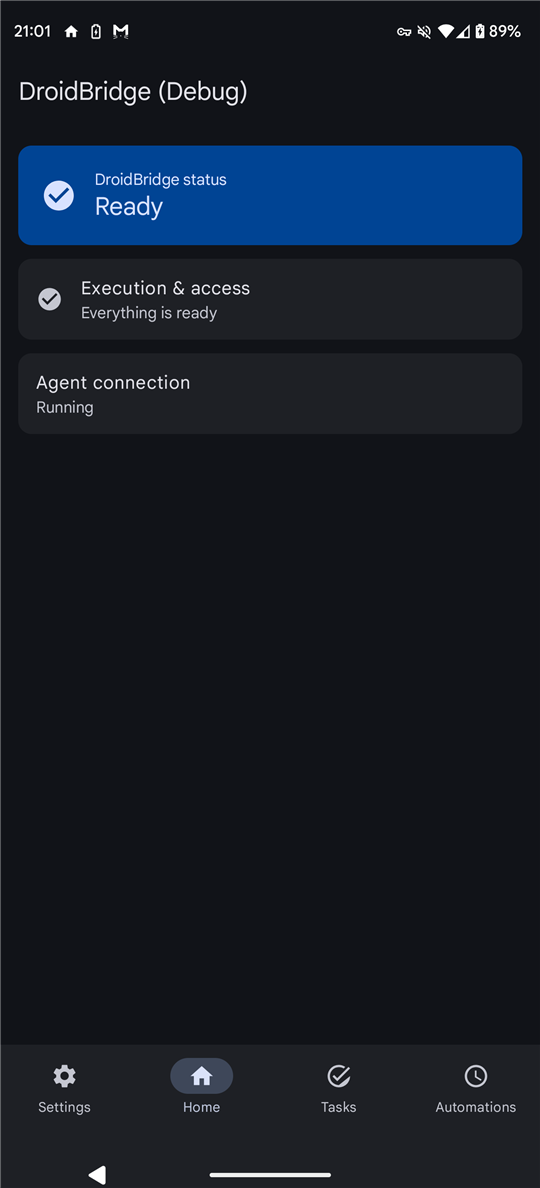
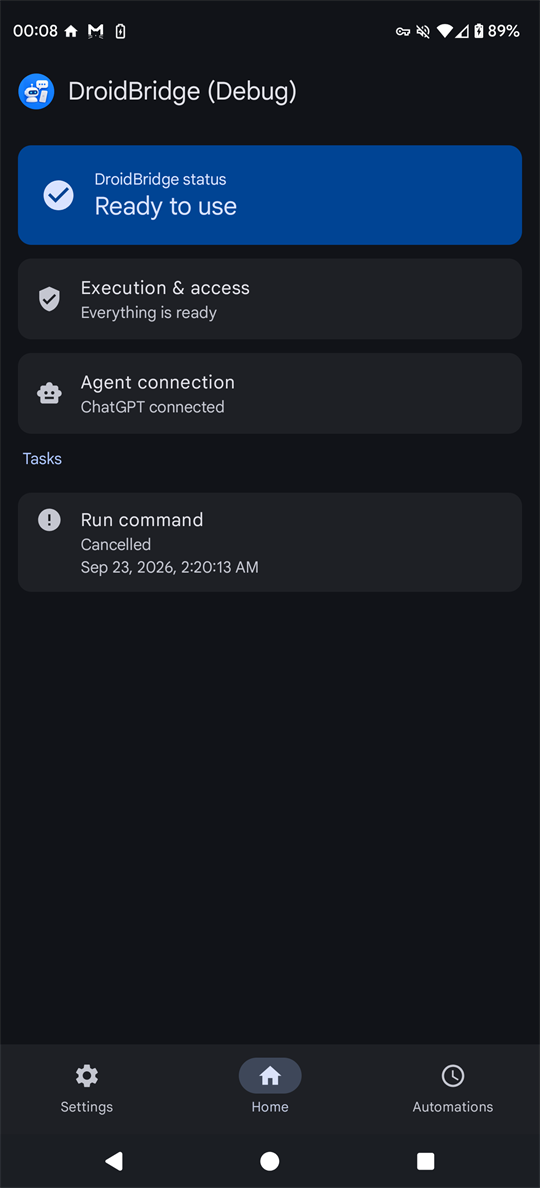
Owner-only daemon logs, a remembered first ChatGPT call, new screenshots

diff --git a/app/src/main/java/com/droidbridge/android/runtimehost/TunnelSettingsController.kt b/app/src/main/java/com/droidbridge/android/runtimehost/TunnelSettingsController.kt
@@ -191,6 +191,8 @@ internal class TunnelSettingsController(
         val enabled: Boolean,
         val tunnelId: String,
         val credential: EncryptedTunnelCredential,
+        /** When ChatGPT first called through this tunnel; first setup finishes on it after a restart too. */
+        val firstCallEpochMs: Long? = null,
     )
 
     fun settings(): String = synchronized(lock) {
@@ -314,7 +316,15 @@ internal class TunnelSettingsController(
         }
     }
 
-    private fun status(settings: Committed?): String {
+    private fun status(current: Committed?): String {
+        // The running tunnel knows only calls since it started; the first one is kept, so a
+        // restarted App still knows ChatGPT has called. A failed write keeps only the live value.
+        val observedCall = runtime.lastCallEpochMs().takeIf { it > 0 }
+        val settings = if (current != null && current.firstCallEpochMs == null && observedCall != null) {
+            commit(current.copy(firstCallEpochMs = observedCall)).getOrDefault(current)
+        } else {
+            current
+        }
         val nativeState = runtime.state().takeIf { it in STATES } ?: TUNNEL_FAILED
         val state = when {
             settings?.enabled != true -> TUNNEL_STOPPED
@@ -330,7 +340,7 @@ internal class TunnelSettingsController(
             put("state", state)
             if (settings != null) put("tunnel_id", settings.tunnelId)
             if (reason != null) put("reason", reason)
-            runtime.lastCallEpochMs().takeIf { it > 0 }?.let { put("last_call_epoch_ms", it) }
+            (observedCall ?: settings?.firstCallEpochMs)?.let { put("last_call_epoch_ms", it) }
             // Only a tunnel that is enabled but not running has a failure worth naming.
             runtime.lastError()?.takeIf { state == TUNNEL_CONNECTING || state == TUNNEL_FAILED }
                 ?.takeIf { LAST_ERROR.matches(it) }?.let { put("last_error", it) }
@@ -405,11 +415,17 @@ internal class TunnelSettingsController(
             put("tunnel_id", settings.tunnelId)
             put("ciphertext", settings.credential.ciphertext)
             put("iv", settings.credential.iv)
+            settings.firstCallEpochMs?.let { put("first_call_epoch_ms", it) }
         }.toString()
 
         fun decode(text: String): Committed {
             val value = Json.parseToJsonElement(text).jsonObject
-            require(value.keys == setOf("schema_version", "enabled", "tunnel_id", "ciphertext", "iv"))
+            val firstCall = value["first_call_epoch_ms"]?.jsonPrimitive?.also { require(!it.isString) }
+                ?.content?.toLong()?.also { require(it > 0) }
+            require(
+                value.keys == setOf("schema_version", "enabled", "tunnel_id", "ciphertext", "iv") +
+                    if (firstCall != null) setOf("first_call_epoch_ms") else emptySet(),
+            )
             val version = value.getValue("schema_version").jsonPrimitive
             require(!version.isString && version.content == SCHEMA_VERSION.toString())
             val enabled = value.getValue("enabled").jsonPrimitive
@@ -426,6 +442,7 @@ internal class TunnelSettingsController(
                 enabled = requireNotNull(enabled.booleanOrNull),
                 tunnelId = tunnelId,
                 credential = EncryptedTunnelCredential(ciphertext, iv),
+                firstCallEpochMs = firstCall,
             )
         }
 

diff --git a/app/src/test/java/com/droidbridge/android/I13_TunnelSettingsControllerTest.kt b/app/src/test/java/com/droidbridge/android/I13_TunnelSettingsControllerTest.kt
@@ -34,6 +34,24 @@ class I13_TunnelSettingsControllerTest {
     ) = TunnelSettingsController(directory, runtime, network, cipher, FakeFileSystem())
 
     @Test
+    fun the_first_call_survives_a_restarted_runtime_and_new_credentials_forget_it() {
+        val controller = controller()
+        controller.configure(TUNNEL_ID, API_KEY, foreground::add)
+        assertFalse(controller.settings().contains("last_call_epoch_ms"))
+
+        runtime.lastCall = FIRST_CALL
+        assertEquals(FIRST_CALL, long(controller.settings(), "last_call_epoch_ms"))
+
+        // A new process starts a tunnel that has seen no call yet.
+        val restarted = FakeRuntime()
+        assertEquals(FIRST_CALL, long(controller(runtime = restarted).settings(), "last_call_epoch_ms"))
+
+        val replaced = controller(runtime = restarted)
+        replaced.configure(TUNNEL_ID, API_KEY, foreground::add)
+        assertFalse(replaced.settings().contains("last_call_epoch_ms"))
+    }
+
+    @Test
     fun credentials_commit_before_enable_and_plaintext_never_reaches_disk() {
         val controller = controller()
         assertFalse(boolean(controller.settings(), "configured"))
@@ -121,6 +139,9 @@ class I13_TunnelSettingsControllerTest {
         assertTrue(cipher.deleted)
     }
 
+    private fun long(reply: String, name: String): Long =
+        Json.parseToJsonElement(reply).jsonObject.getValue(name).jsonPrimitive.content.toLong()
+
     private fun boolean(reply: String, name: String): Boolean =
         Json.parseToJsonElement(reply).jsonObject.getValue(name).jsonPrimitive.content.toBooleanStrict()
 
@@ -153,7 +174,9 @@ class I13_TunnelSettingsControllerTest {
 
         override fun state(): String = current
 
-        override fun lastCallEpochMs(): Long = 0
+        var lastCall = 0L
+
+        override fun lastCallEpochMs(): Long = lastCall
     }
 
     private class FakeNetwork : TunnelNetworkMonitor {
@@ -199,5 +222,6 @@ class I13_TunnelSettingsControllerTest {
     private companion object {
         const val TUNNEL_ID = "tunnel_0123456789abcdefghijklmnopqrstuv"
         const val API_KEY = "test-runtime-api-key"
+        const val FIRST_CALL = 1_789_495_200_000L
     }
 }

diff --git a/app/src/main/java/com/droidbridge/android/ui/settings/SettingsScreens.kt b/app/src/main/java/com/droidbridge/android/ui/settings/SettingsScreens.kt
@@ -479,14 +479,6 @@ fun AboutRoute(
             }
             item {
                 ListItem(
-                    headlineContent = { Text("${stringResource(R.string.mcp_protocol_version)}  $PROTOCOL_VERSION") },
-                    supportingContent = { Text("${stringResource(R.string.diag_store_schema)}  $STORE_SCHEMA_VERSION") },
-                    leadingContent = { RowIcon(R.drawable.ic_tag) },
-                    modifier = Modifier.testTag("about:versions"),
-                )
-            }
-            item {
-                ListItem(
                     headlineContent = { Text(stringResource(R.string.about_licenses)) },
                     leadingContent = { RowIcon(R.drawable.ic_description) },
                     modifier = Modifier.clickable(onClick = openLicenses).testTag("about:licenses"),
@@ -567,5 +559,3 @@ internal fun BackButton(tag: String, @StringRes description: Int, back: () -> Un
     }
 }
 
-private const val PROTOCOL_VERSION = "1"
-private const val STORE_SCHEMA_VERSION = "1"

diff --git a/rust/crates/supervisor/src/stderr_log.rs b/rust/crates/supervisor/src/stderr_log.rs
@@ -17,6 +17,9 @@ pub const LOG_BACKUP_FILES: usize = 2;
 pub const LOG_FILE_NAME: &str = "daemon-stderr.log";
 /// One read from the daemon's stderr: a stalled writer is drained at this size.
 const DRAIN_CHUNK_BYTES: usize = 8_192;
+/// Owner-only: the log directory and every log file are root's alone.
+const DIRECTORY_MODE: u32 = 0o700;
+const FILE_MODE: u32 = 0o600;
 
 /// Appends `bytes` to the log in `directory`, rotating first whenever the current file would pass
 /// [`LOG_FILE_LIMIT_BYTES`], so every file on disk stays within that limit and the bytes written
@@ -32,6 +35,20 @@ pub fn append(directory: &Path, bytes: &[u8]) -> io::Result<()> {
         Err(error) => return Err(error),
     }
     let path = directory.join(LOG_FILE_NAME);
+    // The log sits inside the App's private data and is written as root, whose umask may be 0, so
+    // the modes are set explicitly; this also narrows a directory or file an earlier version left
+    // world-writable.
+    restrict(directory, DIRECTORY_MODE)?;
+    for index in 0..=LOG_BACKUP_FILES {
+        let file = if index == 0 {
+            path.clone()
+        } else {
+            backup_path(&path, index)
+        };
+        if file.exists() {
+            restrict(&file, FILE_MODE)?;
+        }
+    }
     let mut written = file_len(&path)?;
     let mut file = open_append(&path)?;
     let mut remaining = bytes;
@@ -81,7 +98,26 @@ fn file_len(path: &Path) -> io::Result<u64> {
 }
 
 fn open_append(path: &Path) -> io::Result<File> {
-    OpenOptions::new().create(true).append(true).open(path)
+    let mut options = OpenOptions::new();
+    options.create(true).append(true);
+    #[cfg(unix)]
+    {
+        use std::os::unix::fs::OpenOptionsExt;
+        options.mode(FILE_MODE);
+    }
+    let file = options.open(path)?;
+    restrict(path, FILE_MODE)?;
+    Ok(file)
+}
+
+#[cfg_attr(not(unix), allow(unused_variables))]
+fn restrict(path: &Path, mode: u32) -> io::Result<()> {
+    #[cfg(unix)]
+    {
+        use std::os::unix::fs::PermissionsExt;
+        fs::set_permissions(path, fs::Permissions::from_mode(mode))?;
+    }
+    Ok(())
 }
 
 /// Shifts the chain back by one, discarding the oldest file that the shift would overwrite.
@@ -177,6 +213,29 @@ mod tests {
                 .iter()
                 .any(|file| fs::read(file).unwrap() == first)
         );
+
+        fs::remove_dir_all(directory).unwrap();
+    }
+
+    #[cfg(unix)]
+    #[test]
+    fn stderr_log_is_owner_only_even_where_an_earlier_version_was_not() {
+        use std::os::unix::fs::PermissionsExt;
+        let directory = working_directory("stderr-modes");
+        let path = directory.join(LOG_FILE_NAME);
+        fs::create_dir_all(&directory).unwrap();
+        fs::set_permissions(&directory, fs::Permissions::from_mode(0o777)).unwrap();
+        fs::write(&path, b"old").unwrap();
+        fs::set_permissions(&path, fs::Permissions::from_mode(0o666)).unwrap();
+        fs::write(backup_path(&path, 1), b"older").unwrap();
+        fs::set_permissions(backup_path(&path, 1), fs::Permissions::from_mode(0o666)).unwrap();
+
+        append(&directory, b"new").unwrap();
+
+        let mode = |file: &Path| fs::metadata(file).unwrap().permissions().mode() & 0o777;
+        assert_eq!(mode(&directory), 0o700);
+        assert_eq!(mode(&path), 0o600);
+        assert_eq!(mode(&backup_path(&path, 1)), 0o600);
 
         fs::remove_dir_all(directory).unwrap();
     }
